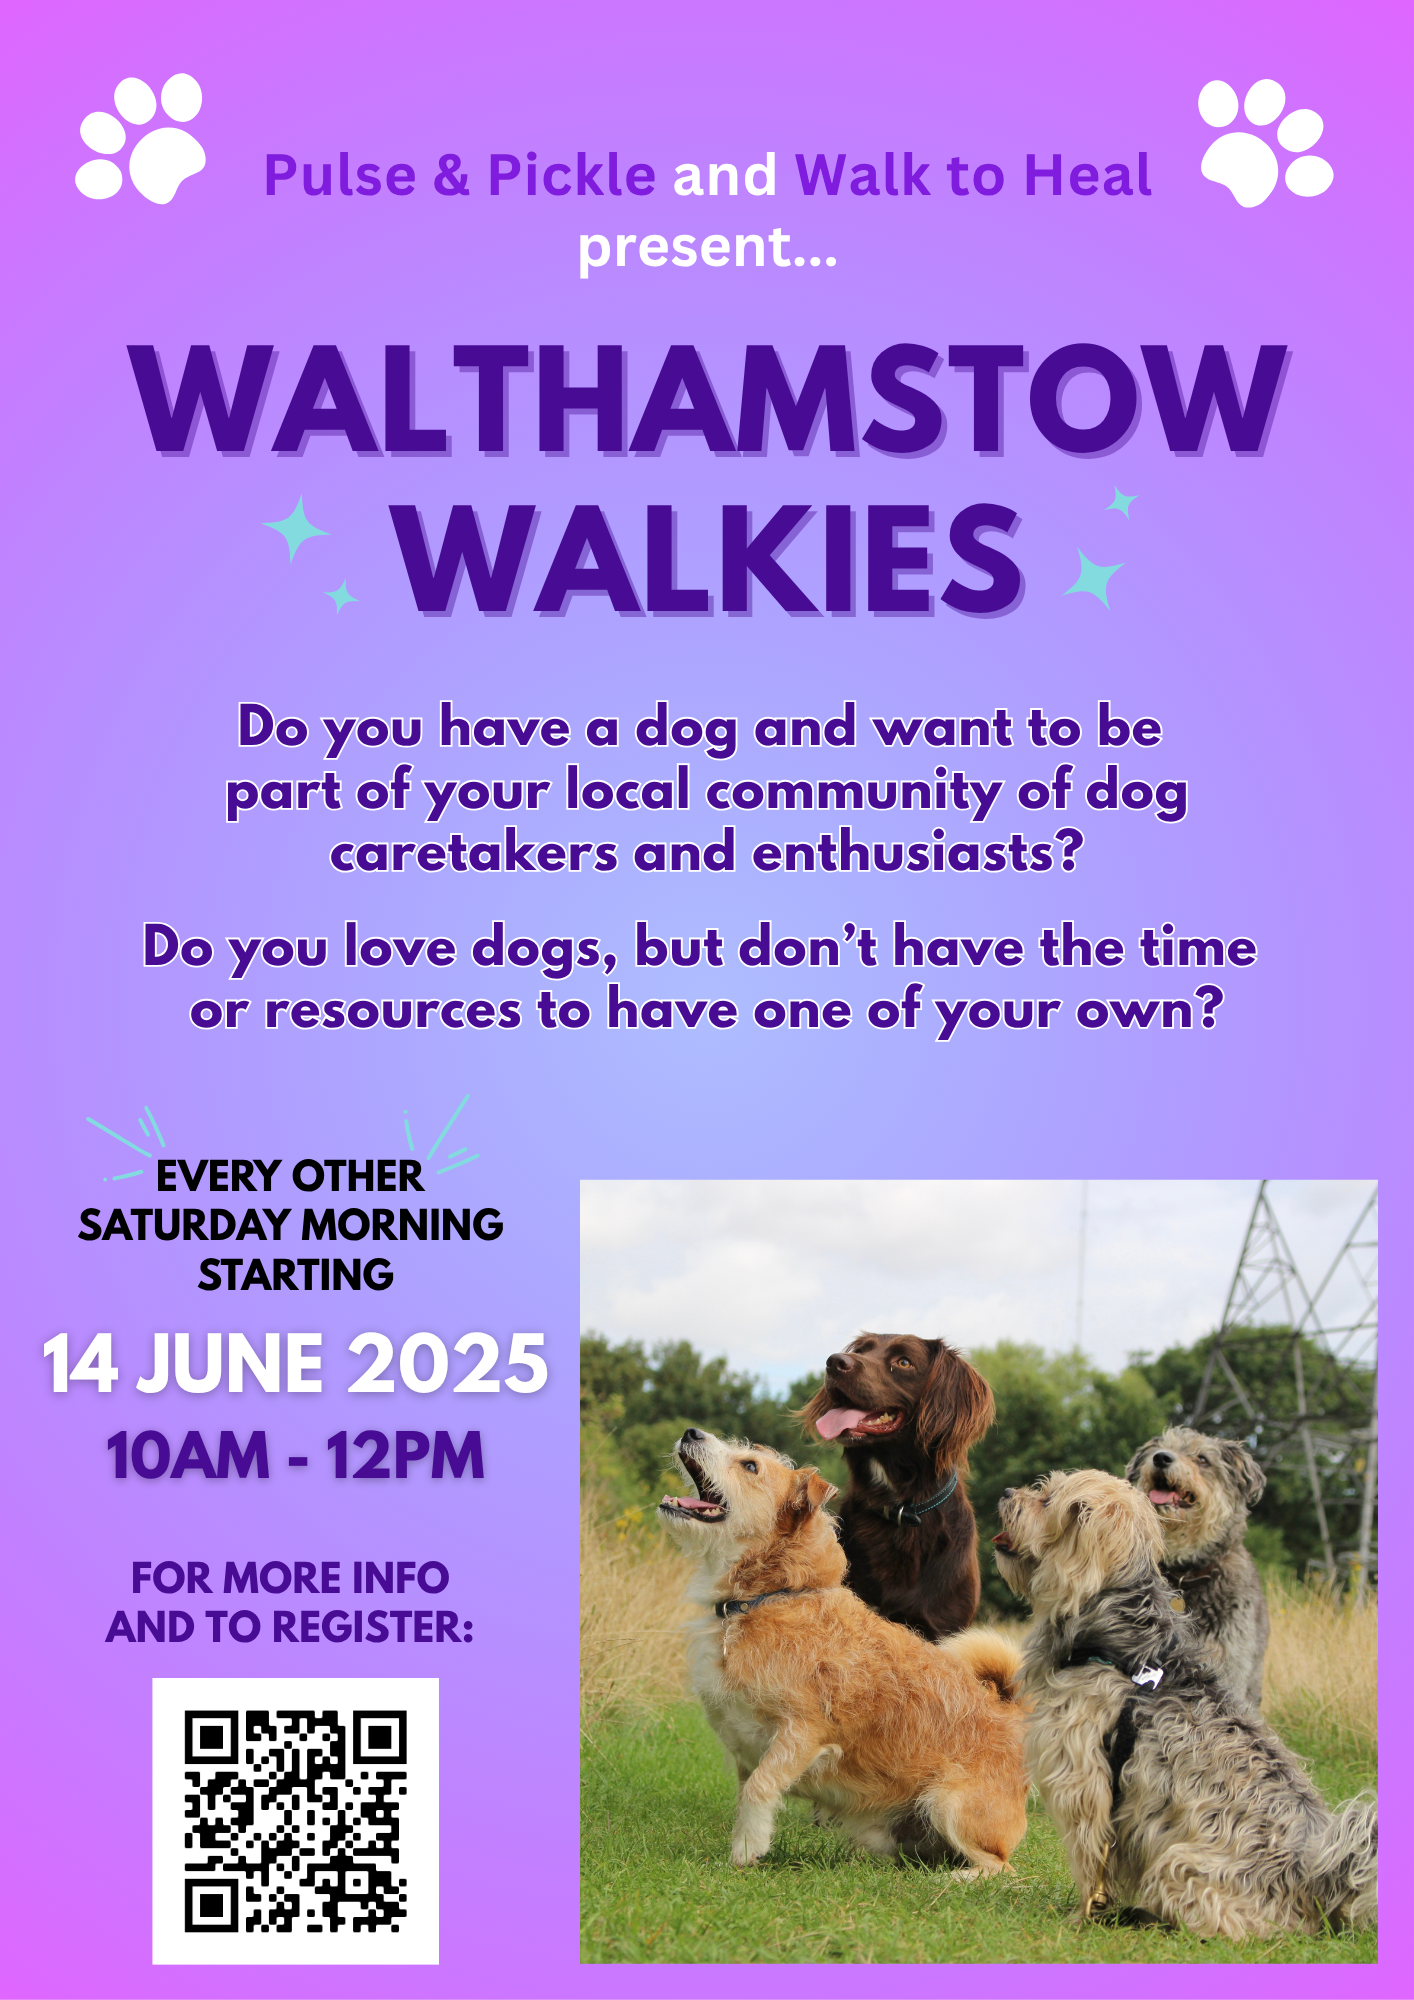
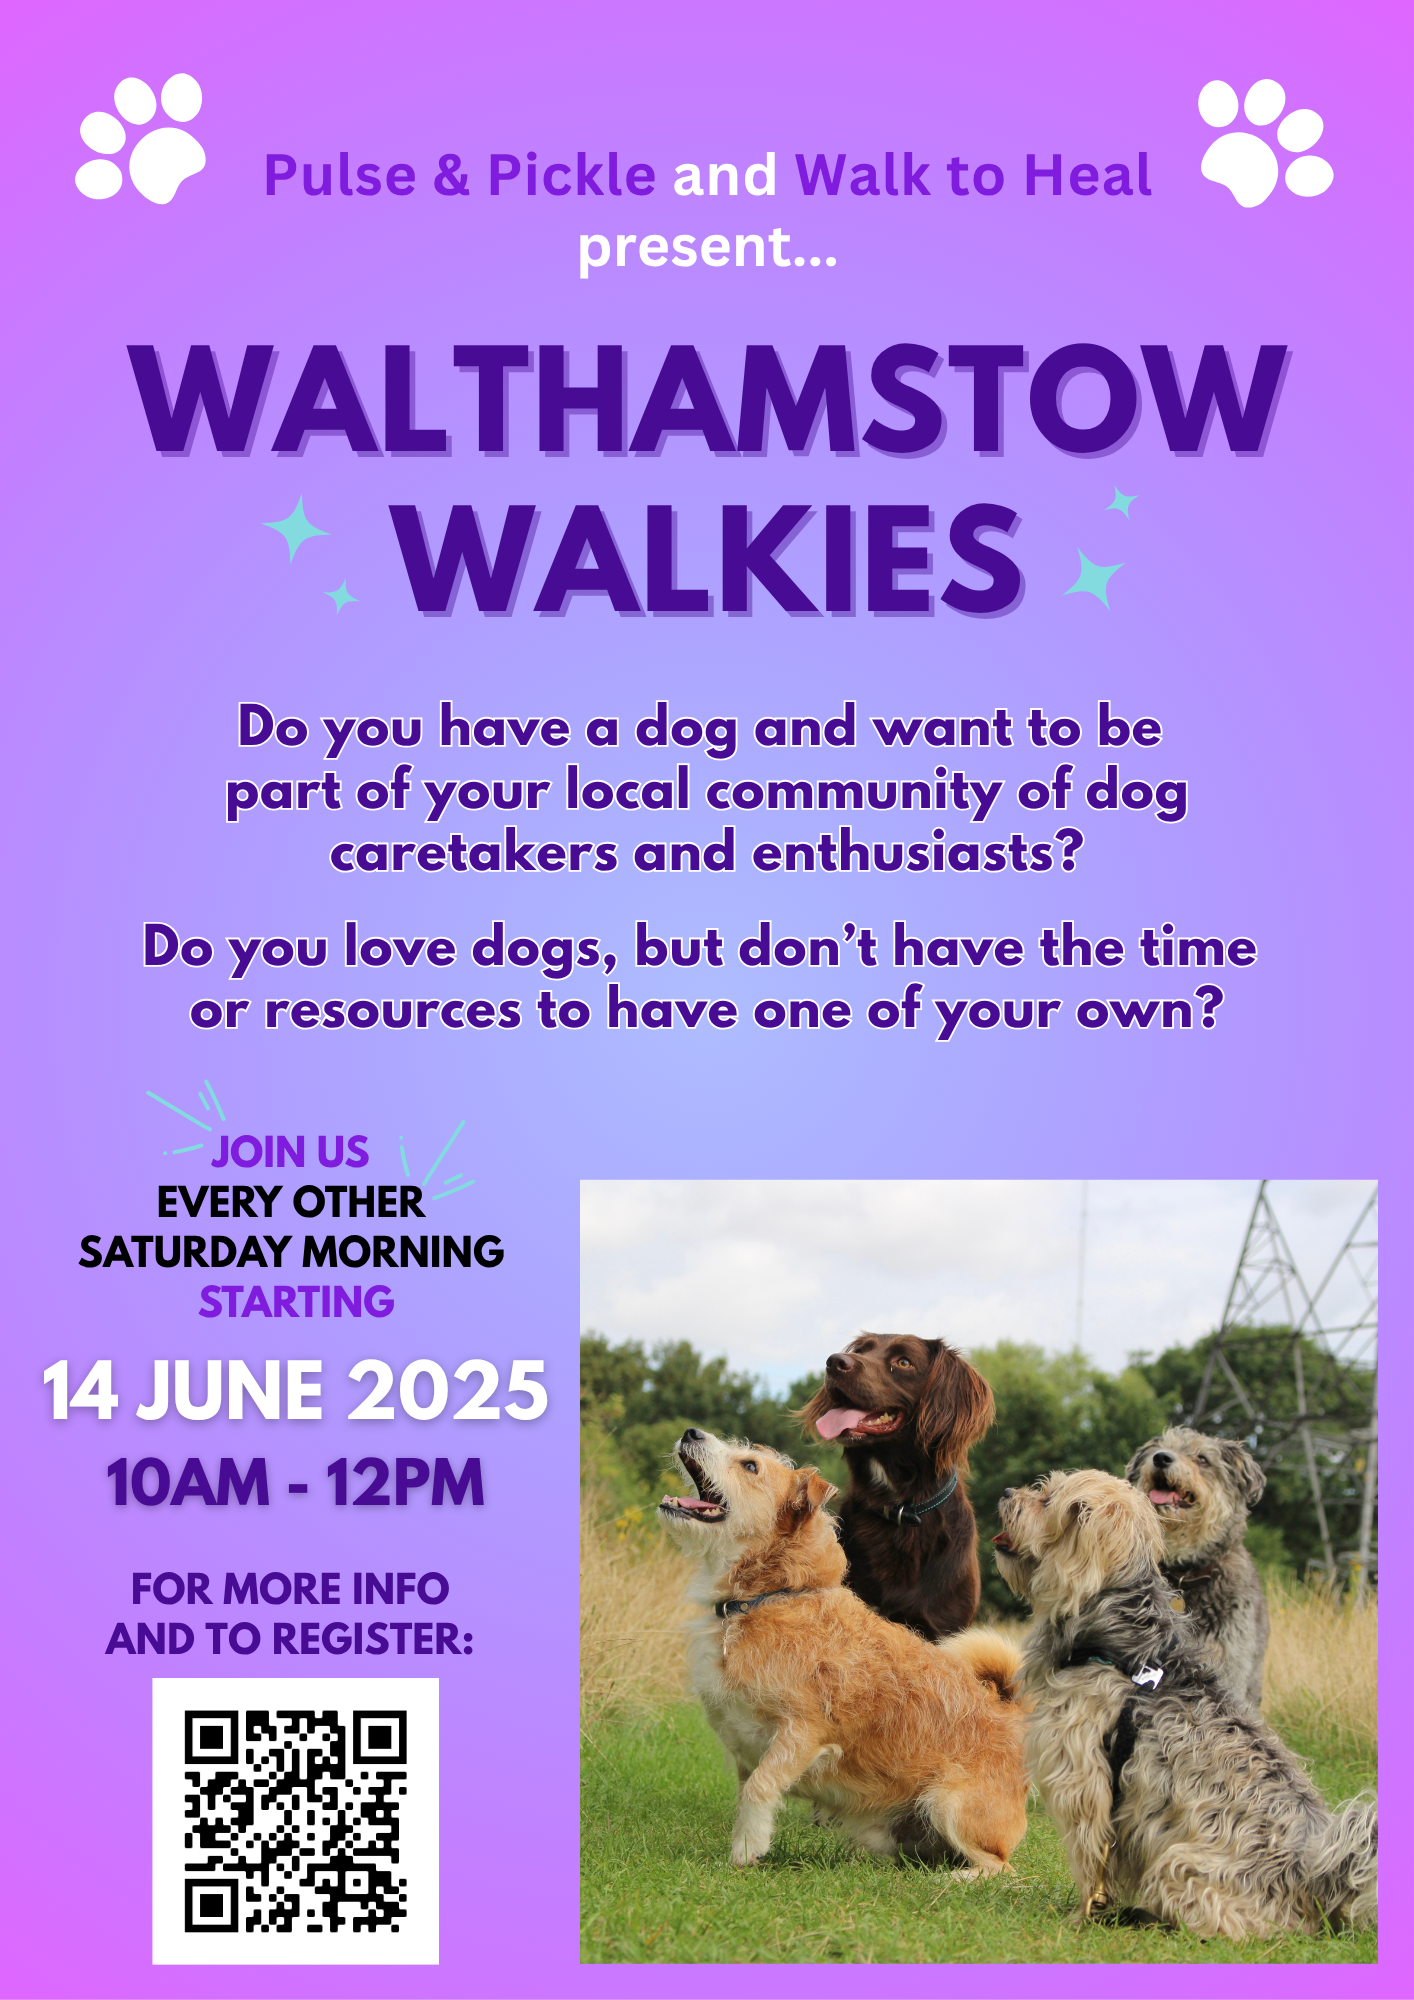
better details and formatting for WW flyer

Changed region(s): [[0.0311, 0.527, 0.4045, 0.837]]

diff --git a/events.html b/events.html
@@ -82,7 +82,7 @@
 	<h1 class="events_taital">Recurring Events</h1>
 	<div class="values_table" style="justify-content: center">
 	  <div class="row">
-	    <div class="about_img" style="max-width: 500px"><img src="images/events/2025June_WalthamstowWalkies.png"></div>
+	    <div class="about_img" style="max-width: 500px"><img src="images/events/20250530_WalthamstowWalkies.png"></div>
 	    <p id="Walthamstow-Walkies" class="values_text" style="max-width: 550px; text-align: left"><span class="inclusive-sans-bold"></br>When:</span> Weekend mornings starting 8 June, 10am to noon.</br></br><span class="inclusive-sans-bold">Where:</span> Start at Pulse & Pickle (34 High St E17 7LD). </br></br><span class="inclusive-sans-bold">What:</span> Walthamstow Walkies is a weekly coffee morning meet up and dog walk for dog caretakers and dog lovers to connect, learn, and explore the Walthamstow Marshes together. Join to: </br></br><span style="font-size:14px; line-height: 16px">* Connect with your <span class="inclusive-sans-medium">local community</span> of caretakers and dog lovers, </br>* Build <span class="inclusive-sans-medium">supportive relationships</span> with people in your area who may become part of your care web for your dog, </br>* Meet your dog’s needs for <span class="inclusive-sans-medium">connection, play, and exploration in nature,</span> </br>* Get some <span class="inclusive-sans-medium">advice</span> and <span class="inclusive-sans-medium">support</span> on how to make your dog walks more enjoyable and collaborative from a Dog Behaviour Coach, and </br>* <span class="inclusive-sans-medium">Share the joy</span> of connecting with dogs in nature for those who don't have a dog of their own.</span> </br></br><span class="inclusive-sans-medium">Our aim is to have fun and share our love of dogs!</span> For dog lovers without a dog of their own, we warmly welcome you to join us, especially if you are interested in becoming a dog walker or carer.</br></br>For more info and to register: <a href="https://buytickets.at/walktoheal/1690343">https://buytickets.at/walktoheal/1690343</a></span> </br></br><span style="font-size:14px; line-height: 16px"><span class="inclusive-sans-light-italic">Walk to Heal also runs a sister event called Wansted Walkies. For more info, <a href="https://walktoheal.co.uk/wanstead-walkies/">check out Walk to Heal's website</a>.</span></span></p>
 	  </div>
 	  <div class="row">
